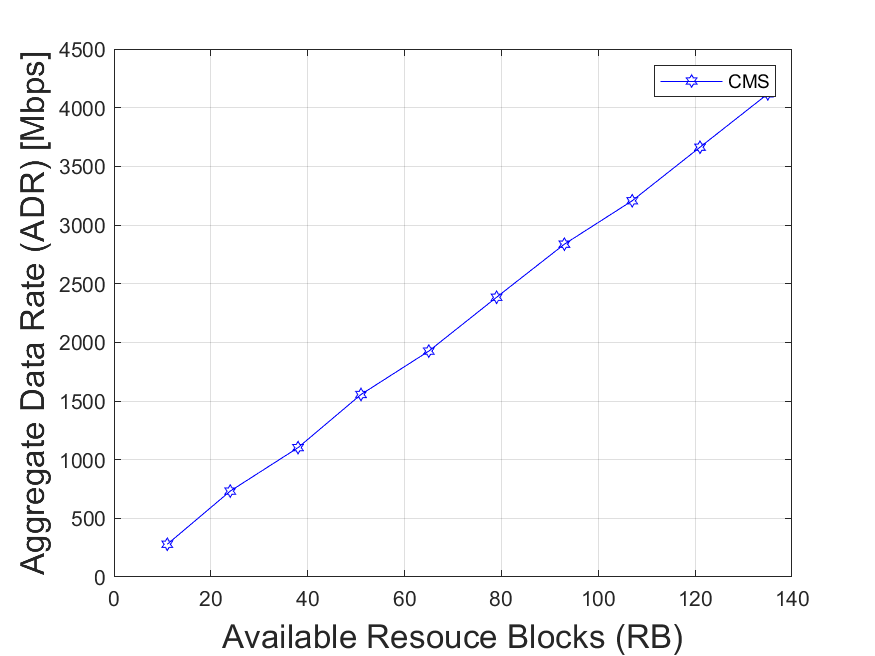
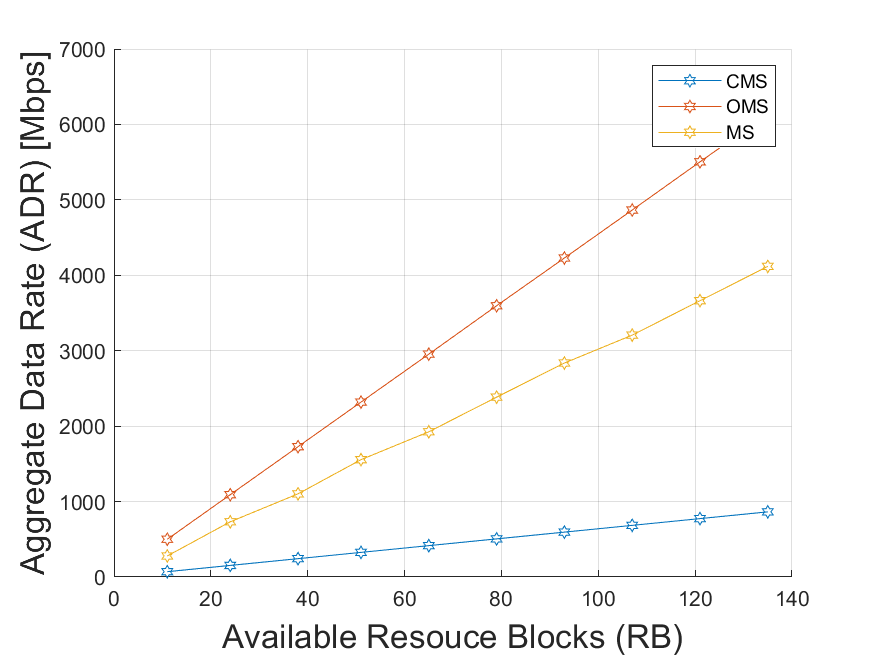
Last trial per codice

diff --git a/genera_grafici.m b/genera_grafici.m
@@ -35,7 +35,7 @@ for rs=res
         end
 
         id_bw=1;
-        for bw=BW  
+        for bw=BW
             switch rs
                 case 1
                     eval(['YRES(1,id_bw) = THR_' name '_BW_' num2str(bw) ';']); %[Mbps]
@@ -52,14 +52,14 @@ for rs=res
 
         switch algo
             case 1 % CMS
-                plot(RB, YRES(1,:), '-pr') % red with pentagram 
-                hold on;
+                plot(RB, YRES(1,:), '-h')
             case 2 % OMS
-                plot(RB, YRES(1,:), '-dg') % green with diamond
                 hold on;
+                plot(RB, YRES(1,:), '-h')
             case 3 % MS
-                plot(RB, YRES(1,:), '-hb') % blue with hexagram
-
+                hold on;
+                plot(RB, YRES(1,:), '-h')
+        
         end
 
         switch rs
